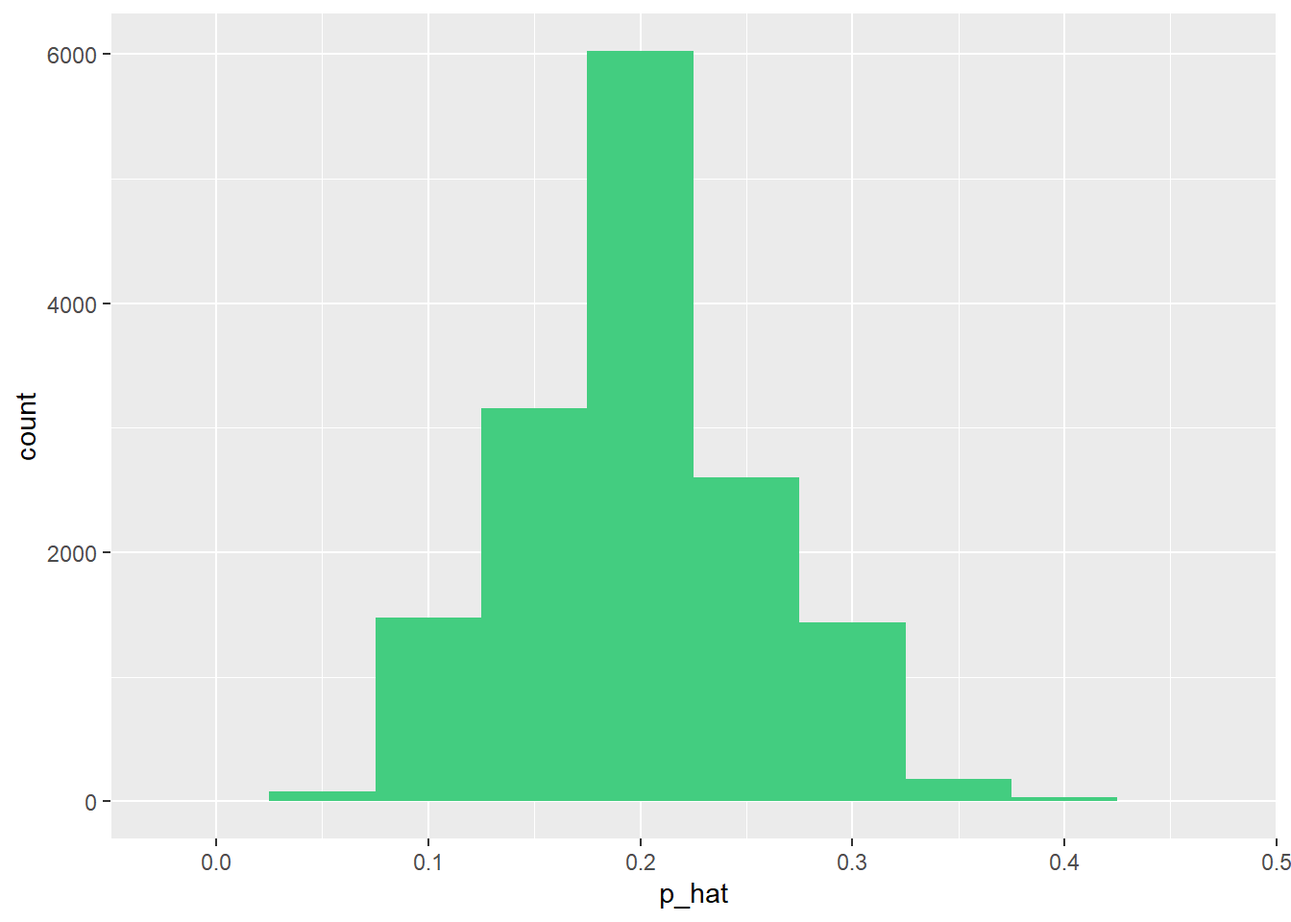
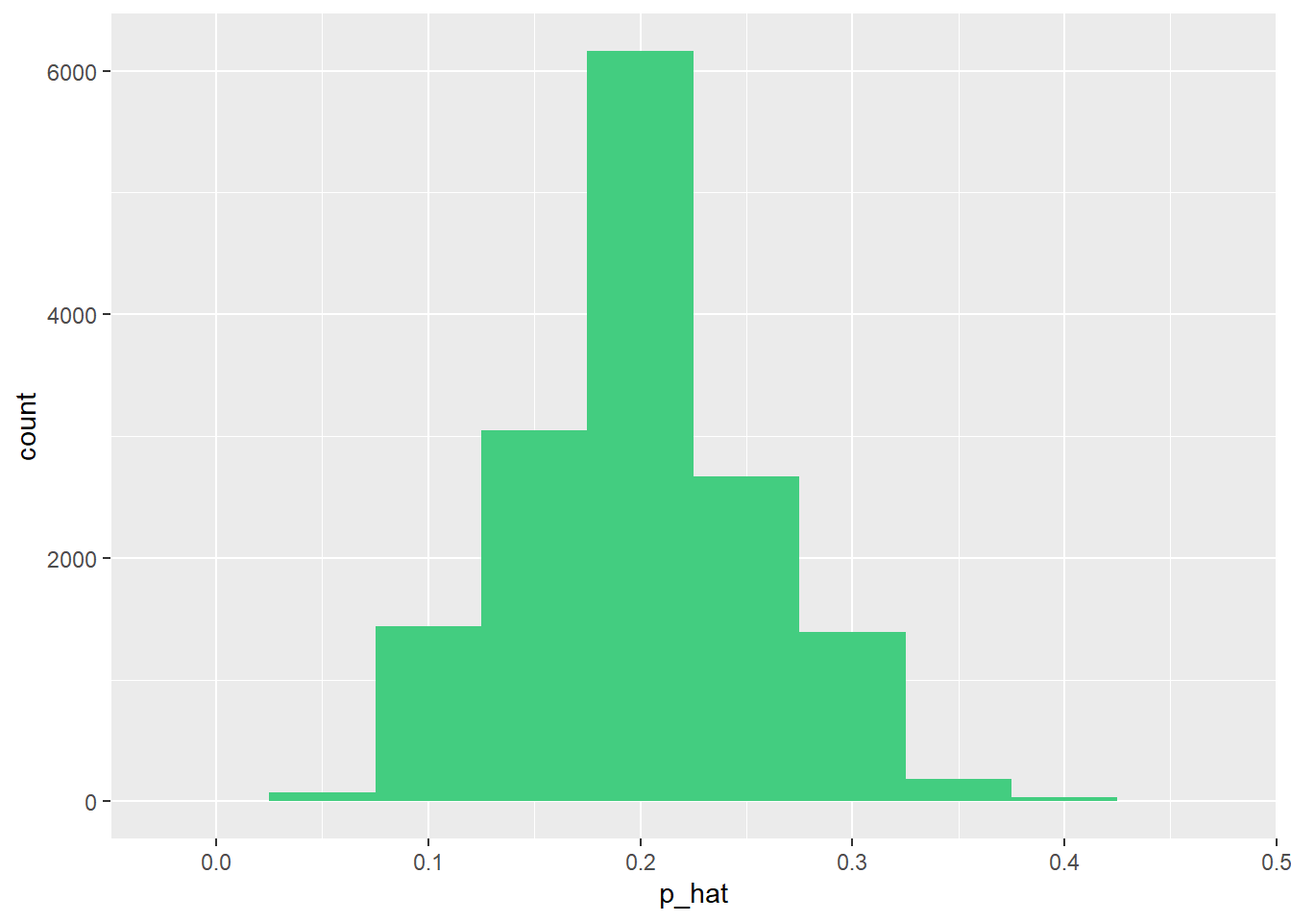
Edit 28102022 1514

diff --git a/docs/part-1---sampling-distributions.html b/docs/part-1---sampling-distributions.html
@@ -231,8 +231,8 @@ We will first create our population assuming a population size of 100,000 (Which
 ## 6 Benefits</code></pre>
 <p><br></p>
 <p><strong>What would this line of code return? <code>c(rep(x, 1000), rep(y, 500))</code></strong></p>
-<div id="radio_ABZZGRTJXZ" class="webex-radiogroup">
-<label><input type="radio" autocomplete="off" name="radio_ABZZGRTJXZ" value="answer"></input> <span>vector of length 1500 with 1000 values of x and 500 values of y</span></label><label><input type="radio" autocomplete="off" name="radio_ABZZGRTJXZ" value=""></input> <span>matrix with 1000 rows of x and 500 columns of y</span></label><label><input type="radio" autocomplete="off" name="radio_ABZZGRTJXZ" value=""></input> <span>vector of length 500 all y</span></label><label><input type="radio" autocomplete="off" name="radio_ABZZGRTJXZ" value=""></input> <span>vector of length 1000 all x</span></label>
+<div id="radio_FLPSKEXYQS" class="webex-radiogroup">
+<label><input type="radio" autocomplete="off" name="radio_FLPSKEXYQS" value=""></input> <span>matrix with 1000 rows of x and 500 columns of y</span></label><label><input type="radio" autocomplete="off" name="radio_FLPSKEXYQS" value=""></input> <span>vector of length 500 all y</span></label><label><input type="radio" autocomplete="off" name="radio_FLPSKEXYQS" value=""></input> <span>vector of length 1000 all x</span></label><label><input type="radio" autocomplete="off" name="radio_FLPSKEXYQS" value="answer"></input> <span>vector of length 1500 with 1000 values of x and 500 values of y</span></label>
 </div>
 <div class="webex-solution">
 <button>
@@ -298,8 +298,8 @@ Solution
 <pre><code>## # A tibble: 2 x 3
 ##   scientist_work      n p_hat
 ##   &lt;chr&gt;           &lt;int&gt; &lt;dbl&gt;
-## 1 Benefits           37  0.74
-## 2 Doesn&#39;t benefit    13  0.26</code></pre>
+## 1 Benefits           34  0.68
+## 2 Doesn&#39;t benefit    16  0.32</code></pre>
 <div class="sourceCode" id="cb11"><pre class="sourceCode r"><code class="sourceCode r"><span id="cb11-1"><a href="part-1---sampling-distributions.html#cb11-1" aria-hidden="true" tabindex="-1"></a><span class="fu">ggplot</span>(sample1, <span class="fu">aes</span>(<span class="at">x =</span> scientist_work)) <span class="sc">+</span> </span>
 <span id="cb11-2"><a href="part-1---sampling-distributions.html#cb11-2" aria-hidden="true" tabindex="-1"></a>  <span class="fu">geom_bar</span>(<span class="at">fill =</span> <span class="st">&quot;lightblue&quot;</span>, <span class="at">width =</span> <span class="fl">0.5</span>) <span class="sc">+</span> </span>
 <span id="cb11-3"><a href="part-1---sampling-distributions.html#cb11-3" aria-hidden="true" tabindex="-1"></a>  <span class="fu">labs</span>(<span class="at">x =</span> <span class="st">&quot;&quot;</span>, <span class="at">y =</span> <span class="st">&quot;&quot;</span>, <span class="at">title =</span> <span class="st">&quot;Do you believe that the work scientists do benefit people like you?&quot;</span> ) <span class="sc">+</span></span>
@@ -308,8 +308,8 @@ Solution
 </div>
 <p><br></p>
 <p><strong>Think about how the proportions in your sample compare with the distribution of the population. Would you expect the sample distribution to be?</strong></p>
-<div id="radio_MHAQQUQRWY" class="webex-radiogroup">
-<label><input type="radio" autocomplete="off" name="radio_MHAQQUQRWY" value="answer"></input> <span>Similar to the population distribution</span></label><label><input type="radio" autocomplete="off" name="radio_MHAQQUQRWY" value=""></input> <span>Very different to the population distribution</span></label>
+<div id="radio_EKZOJMFFJO" class="webex-radiogroup">
+<label><input type="radio" autocomplete="off" name="radio_EKZOJMFFJO" value="answer"></input> <span>Similar to the population distribution</span></label><label><input type="radio" autocomplete="off" name="radio_EKZOJMFFJO" value=""></input> <span>Very different to the population distribution</span></label>
 </div>
 <div class="webex-solution">
 <button>
@@ -328,13 +328,13 @@ Hint
 <pre><code>## # A tibble: 2 x 3
 ##   scientist_work      n p_hat
 ##   &lt;chr&gt;           &lt;int&gt; &lt;dbl&gt;
-## 1 Benefits           37  0.74
-## 2 Doesn&#39;t benefit    13  0.26</code></pre>
+## 1 Benefits           34  0.68
+## 2 Doesn&#39;t benefit    16  0.32</code></pre>
 <p>Depending on the 50 people sampled, your estimate could be a bit above or a bit below the population proportion of 0.2 (or in some cases exactly equal to 0.2). In general, though, the sample proportion turns out to be a pretty good estimate of the true population proportion, and you were able to get it by sampling less than 1% of the population, 50 out of 100000.</p>
 <p><br></p>
 <p><strong>Would you expect the sample proportion to match the sample proportion of another student's sample?</strong></p>
-<div id="radio_HGAZANZPYR" class="webex-radiogroup">
-<label><input type="radio" autocomplete="off" name="radio_HGAZANZPYR" value=""></input> <span>Completely different</span></label><label><input type="radio" autocomplete="off" name="radio_HGAZANZPYR" value="answer"></input> <span>Similar but not necessarily the same</span></label><label><input type="radio" autocomplete="off" name="radio_HGAZANZPYR" value=""></input> <span>Exactly the same</span></label>
+<div id="radio_GTNWUTJPDQ" class="webex-radiogroup">
+<label><input type="radio" autocomplete="off" name="radio_GTNWUTJPDQ" value=""></input> <span>Exactly the same</span></label><label><input type="radio" autocomplete="off" name="radio_GTNWUTJPDQ" value=""></input> <span>Completely different</span></label><label><input type="radio" autocomplete="off" name="radio_GTNWUTJPDQ" value="answer"></input> <span>Similar but not necessarily the same</span></label>
 </div>
 <div class="webex-solution">
 <button>
@@ -368,8 +368,8 @@ Solution
 <pre><code>## # A tibble: 2 x 3
 ##   scientist_work      n p_hat
 ##   &lt;chr&gt;           &lt;int&gt; &lt;dbl&gt;
-## 1 Benefits           42  0.84
-## 2 Doesn&#39;t benefit     8  0.16</code></pre>
+## 1 Benefits           38  0.76
+## 2 Doesn&#39;t benefit    12  0.24</code></pre>
 </div>
 <p><br></p>
 <ul>
@@ -394,8 +394,8 @@ Solution
 <pre><code>## # A tibble: 2 x 3
 ##   scientist_work      n p_hat
 ##   &lt;chr&gt;           &lt;int&gt; &lt;dbl&gt;
-## 1 Benefits           81  0.81
-## 2 Doesn&#39;t benefit    19  0.19</code></pre>
+## 1 Benefits           77  0.77
+## 2 Doesn&#39;t benefit    23  0.23</code></pre>
 <div class="sourceCode" id="cb18"><pre class="sourceCode r"><code class="sourceCode r"><span id="cb18-1"><a href="part-1---sampling-distributions.html#cb18-1" aria-hidden="true" tabindex="-1"></a>sample4 <span class="ot">&lt;-</span> global_monitor <span class="sc">%&gt;%</span> </span>
 <span id="cb18-2"><a href="part-1---sampling-distributions.html#cb18-2" aria-hidden="true" tabindex="-1"></a>  <span class="fu">sample_n</span>(<span class="dv">1000</span>)</span>
 <span id="cb18-3"><a href="part-1---sampling-distributions.html#cb18-3" aria-hidden="true" tabindex="-1"></a></span>
@@ -405,15 +405,15 @@ Solution
 <pre><code>## # A tibble: 2 x 3
 ##   scientist_work      n p_hat
 ##   &lt;chr&gt;           &lt;int&gt; &lt;dbl&gt;
-## 1 Benefits          815 0.815
-## 2 Doesn&#39;t benefit   185 0.185</code></pre>
+## 1 Benefits          800   0.8
+## 2 Doesn&#39;t benefit   200   0.2</code></pre>
 </div>
 <p><br></p>
 <ul>
 <li><strong>Looking at the new samples, of size 100 and 1000. Which would you think would provide a more precise estimate of the population mean?</strong></li>
 </ul>
-<div id="radio_WAWLQQYQPB" class="webex-radiogroup">
-<label><input type="radio" autocomplete="off" name="radio_WAWLQQYQPB" value=""></input> <span>Sample size 50</span></label><label><input type="radio" autocomplete="off" name="radio_WAWLQQYQPB" value=""></input> <span>Sample size 100</span></label><label><input type="radio" autocomplete="off" name="radio_WAWLQQYQPB" value="answer"></input> <span>Sample size 1000</span></label>
+<div id="radio_WNLDLNTILM" class="webex-radiogroup">
+<label><input type="radio" autocomplete="off" name="radio_WNLDLNTILM" value=""></input> <span>Sample size 50</span></label><label><input type="radio" autocomplete="off" name="radio_WNLDLNTILM" value=""></input> <span>Sample size 100</span></label><label><input type="radio" autocomplete="off" name="radio_WNLDLNTILM" value="answer"></input> <span>Sample size 1000</span></label>
 </div>
 <div class="webex-solution">
 <button>
@@ -448,8 +448,8 @@ Hint
 <p>If you would like to adjust the bin width of your histogram to show a little more detail, you can do so by changing the <code>binwidth</code> argument in <code>geom_histogram</code>.</p>
 <p><br></p>
 <p><strong>How many observations are there in <code>sample_props50</code>?</strong></p>
-<div id="radio_WJPKQNTAAX" class="webex-radiogroup">
-<label><input type="radio" autocomplete="off" name="radio_WJPKQNTAAX" value=""></input> <span>50</span></label><label><input type="radio" autocomplete="off" name="radio_WJPKQNTAAX" value=""></input> <span>100</span></label><label><input type="radio" autocomplete="off" name="radio_WJPKQNTAAX" value=""></input> <span>1500</span></label><label><input type="radio" autocomplete="off" name="radio_WJPKQNTAAX" value=""></input> <span>1000</span></label><label><input type="radio" autocomplete="off" name="radio_WJPKQNTAAX" value="answer"></input> <span>15000</span></label>
+<div id="radio_VCOKGIFWBB" class="webex-radiogroup">
+<label><input type="radio" autocomplete="off" name="radio_VCOKGIFWBB" value=""></input> <span>50</span></label><label><input type="radio" autocomplete="off" name="radio_VCOKGIFWBB" value=""></input> <span>100</span></label><label><input type="radio" autocomplete="off" name="radio_VCOKGIFWBB" value=""></input> <span>1500</span></label><label><input type="radio" autocomplete="off" name="radio_VCOKGIFWBB" value=""></input> <span>1000</span></label><label><input type="radio" autocomplete="off" name="radio_VCOKGIFWBB" value="answer"></input> <span>15000</span></label>
 </div>
 <div class="webex-solution">
 <button>
@@ -459,8 +459,8 @@ Hint
 </div>
 <p><br></p>
 <p><strong>What distribution does the shape of the histogram most resemble?</strong></p>
-<div id="radio_LQUPOWAVYP" class="webex-radiogroup">
-<label><input type="radio" autocomplete="off" name="radio_LQUPOWAVYP" value=""></input> <span>Binomial</span></label><label><input type="radio" autocomplete="off" name="radio_LQUPOWAVYP" value=""></input> <span>Poisson</span></label><label><input type="radio" autocomplete="off" name="radio_LQUPOWAVYP" value=""></input> <span>Geometric</span></label><label><input type="radio" autocomplete="off" name="radio_LQUPOWAVYP" value="answer"></input> <span>Normal</span></label>
+<div id="radio_CMJLKMCXTB" class="webex-radiogroup">
+<label><input type="radio" autocomplete="off" name="radio_CMJLKMCXTB" value=""></input> <span>Poisson</span></label><label><input type="radio" autocomplete="off" name="radio_CMJLKMCXTB" value=""></input> <span>Geometric</span></label><label><input type="radio" autocomplete="off" name="radio_CMJLKMCXTB" value=""></input> <span>Binomial</span></label><label><input type="radio" autocomplete="off" name="radio_CMJLKMCXTB" value="answer"></input> <span>Normal</span></label>
 </div>
 <div class="webex-solution">
 <button>
@@ -488,8 +488,8 @@ Hint
 <span id="cb21-11"><a href="part-1---sampling-distributions.html#cb21-11" aria-hidden="true" tabindex="-1"></a>       <span class="at">subtitle =</span> <span class="st">&quot;Sample size = 50&quot;</span>)</span></code></pre></div>
 <p><br></p>
 <p><strong>Would you expect the distribution to change if 50,000 samples were collected?</strong></p>
-<div id="radio_YWEUVLASRB" class="webex-radiogroup">
-<label><input type="radio" autocomplete="off" name="radio_YWEUVLASRB" value=""></input> <span>Yes</span></label><label><input type="radio" autocomplete="off" name="radio_YWEUVLASRB" value="answer"></input> <span>No</span></label>
+<div id="radio_JDQFOYAOOB" class="webex-radiogroup">
+<label><input type="radio" autocomplete="off" name="radio_JDQFOYAOOB" value=""></input> <span>Yes</span></label><label><input type="radio" autocomplete="off" name="radio_JDQFOYAOOB" value="answer"></input> <span>No</span></label>
 </div>
 <div class="webex-solution">
 <button>
@@ -578,8 +578,8 @@ Solution
 </div>
 <p><br></p>
 <p><strong>When the sample size is larger, what happens to the center?</strong></p>
-<div id="radio_NKHCSZCYIB" class="webex-radiogroup">
-<label><input type="radio" autocomplete="off" name="radio_NKHCSZCYIB" value=""></input> <span>Increases</span></label><label><input type="radio" autocomplete="off" name="radio_NKHCSZCYIB" value=""></input> <span>Decreases</span></label><label><input type="radio" autocomplete="off" name="radio_NKHCSZCYIB" value="answer"></input> <span>Stays constant</span></label>
+<div id="radio_IBRIRXIUTZ" class="webex-radiogroup">
+<label><input type="radio" autocomplete="off" name="radio_IBRIRXIUTZ" value=""></input> <span>Increases</span></label><label><input type="radio" autocomplete="off" name="radio_IBRIRXIUTZ" value=""></input> <span>Decreases</span></label><label><input type="radio" autocomplete="off" name="radio_IBRIRXIUTZ" value="answer"></input> <span>Stays constant</span></label>
 </div>
 <div class="webex-solution">
 <button>
@@ -589,8 +589,8 @@ Hint
 </div>
 <p><br></p>
 <p><strong>When the sample size is larger, what happens to the spread?</strong></p>
-<div id="radio_HBNEJYICTJ" class="webex-radiogroup">
-<label><input type="radio" autocomplete="off" name="radio_HBNEJYICTJ" value=""></input> <span>Increases</span></label><label><input type="radio" autocomplete="off" name="radio_HBNEJYICTJ" value="answer"></input> <span>Decreases</span></label><label><input type="radio" autocomplete="off" name="radio_HBNEJYICTJ" value=""></input> <span>Stays constant</span></label>
+<div id="radio_HIMLVNFHUH" class="webex-radiogroup">
+<label><input type="radio" autocomplete="off" name="radio_HIMLVNFHUH" value=""></input> <span>Increases</span></label><label><input type="radio" autocomplete="off" name="radio_HIMLVNFHUH" value="answer"></input> <span>Decreases</span></label><label><input type="radio" autocomplete="off" name="radio_HIMLVNFHUH" value=""></input> <span>Stays constant</span></label>
 </div>
 <div class="webex-solution">
 <button>

diff --git a/docs/part-2---confidence-intervals.html b/docs/part-2---confidence-intervals.html
@@ -269,13 +269,13 @@ Solution
 <pre><code>## # A tibble: 2 x 3
 ##   climate_change_affects     n p_hat
 ##   &lt;chr&gt;                  &lt;int&gt; &lt;dbl&gt;
-## 1 No                        30   0.5
-## 2 Yes                       30   0.5</code></pre>
+## 1 No                        25 0.417
+## 2 Yes                       35 0.583</code></pre>
 </div>
 <p><br></p>
 <strong>What would you expect another student's proportion to be?</strong>
-<div id="radio_CYCGFRMBLU" class="webex-radiogroup">
-<label><input type="radio" autocomplete="off" name="radio_CYCGFRMBLU" value="answer"></input> <span>Slightly similar</span></label><label><input type="radio" autocomplete="off" name="radio_CYCGFRMBLU" value=""></input> <span>Very different</span></label><label><input type="radio" autocomplete="off" name="radio_CYCGFRMBLU" value=""></input> <span>Identical</span></label>
+<div id="radio_XTSAHHZJEZ" class="webex-radiogroup">
+<label><input type="radio" autocomplete="off" name="radio_XTSAHHZJEZ" value=""></input> <span>Very different</span></label><label><input type="radio" autocomplete="off" name="radio_XTSAHHZJEZ" value="answer"></input> <span>Slightly similar</span></label><label><input type="radio" autocomplete="off" name="radio_XTSAHHZJEZ" value=""></input> <span>Identical</span></label>
 </div>
 <div class="webex-solution">
 <button>
@@ -302,11 +302,11 @@ Hint
 <p>However, some conditions need to be made for the confidence interval to be valid.</p>
 <p><br></p>
 <strong>What conditions must be met for this confidence to be valid?</strong>
-<div id="radio_LEXBSLUTRT" class="webex-radiogroup">
-<label><input type="radio" autocomplete="off" name="radio_LEXBSLUTRT" value=""></input> <span>Data comes from a normal distribution</span></label><label><input type="radio" autocomplete="off" name="radio_LEXBSLUTRT" value=""></input> <span>Data comes from a binomial distribution</span></label><label><input type="radio" autocomplete="off" name="radio_LEXBSLUTRT" value="answer"></input> <span>Independence assumption is valid</span></label>
+<div id="radio_MLCKPLRVHG" class="webex-radiogroup">
+<label><input type="radio" autocomplete="off" name="radio_MLCKPLRVHG" value="answer"></input> <span>Independence assumption is valid</span></label><label><input type="radio" autocomplete="off" name="radio_MLCKPLRVHG" value=""></input> <span>Data comes from a normal distribution</span></label><label><input type="radio" autocomplete="off" name="radio_MLCKPLRVHG" value=""></input> <span>Data comes from a binomial distribution</span></label>
 </div>
-<div id="radio_EXKDDAZVRC" class="webex-radiogroup">
-<label><input type="radio" autocomplete="off" name="radio_EXKDDAZVRC" value=""></input> <span>If distribution of the data is skewed the sample size must be small enough</span></label><label><input type="radio" autocomplete="off" name="radio_EXKDDAZVRC" value="answer"></input> <span>If the distribution of the data is skewed the sample size must be large enough</span></label>
+<div id="radio_FNFLISYWKF" class="webex-radiogroup">
+<label><input type="radio" autocomplete="off" name="radio_FNFLISYWKF" value=""></input> <span>If distribution of the data is skewed the sample size must be small enough</span></label><label><input type="radio" autocomplete="off" name="radio_FNFLISYWKF" value="answer"></input> <span>If the distribution of the data is skewed the sample size must be large enough</span></label>
 </div>
 <div class="webex-solution">
 <button>
@@ -337,8 +337,8 @@ Hint
 <span id="cb32-14"><a href="part-2---confidence-intervals.html#cb32-14" aria-hidden="true" tabindex="-1"></a>ci</span></code></pre></div>
 <p><br></p>
 <strong>If you were to repeat this simulation again and again, would each confidence interval capture the true population proportion of US adults who think climate change affects their local community?</strong>
-<div id="radio_SWCMSMGEYT" class="webex-radiogroup">
-<label><input type="radio" autocomplete="off" name="radio_SWCMSMGEYT" value="answer"></input> <span>Each would with 95% confidence</span></label><label><input type="radio" autocomplete="off" name="radio_SWCMSMGEYT" value=""></input> <span>Yes, each certainly would</span></label><label><input type="radio" autocomplete="off" name="radio_SWCMSMGEYT" value=""></input> <span>No, each certainly wouldn't</span></label>
+<div id="radio_LDPQIWOUJJ" class="webex-radiogroup">
+<label><input type="radio" autocomplete="off" name="radio_LDPQIWOUJJ" value=""></input> <span>Yes, each certainly would</span></label><label><input type="radio" autocomplete="off" name="radio_LDPQIWOUJJ" value=""></input> <span>No, each certainly wouldn't</span></label><label><input type="radio" autocomplete="off" name="radio_LDPQIWOUJJ" value="answer"></input> <span>Each would with 95% confidence</span></label>
 </div>
 <div class="webex-solution">
 <button>
@@ -350,8 +350,8 @@ Hint
 <p>If we were to collect all the confidence intervals produced in the console above by all the students in S1Y, each student should have produced a slightly different confidence interval because they were each based on different random samples.</p>
 <p><br></p>
 <strong>What proportion of those intervals would you expect to capture the true population mean?</strong>
-<div id="radio_CQFADFUHEP" class="webex-radiogroup">
-<label><input type="radio" autocomplete="off" name="radio_CQFADFUHEP" value=""></input> <span>2.5%</span></label><label><input type="radio" autocomplete="off" name="radio_CQFADFUHEP" value=""></input> <span>5%</span></label><label><input type="radio" autocomplete="off" name="radio_CQFADFUHEP" value="answer"></input> <span>95%</span></label>
+<div id="radio_YXBRONTDRS" class="webex-radiogroup">
+<label><input type="radio" autocomplete="off" name="radio_YXBRONTDRS" value=""></input> <span>5%</span></label><label><input type="radio" autocomplete="off" name="radio_YXBRONTDRS" value="answer"></input> <span>95%</span></label><label><input type="radio" autocomplete="off" name="radio_YXBRONTDRS" value=""></input> <span>2.5%</span></label>
 </div>
 <div class="webex-solution">
 <button>
@@ -399,8 +399,8 @@ Hint
 <span id="cb33-26"><a href="part-2---confidence-intervals.html#cb33-26" aria-hidden="true" tabindex="-1"></a><span class="fu">c</span>(<span class="st">&quot;99% CI&quot;</span>, <span class="fu">paste</span>(<span class="fu">round</span>(ci,<span class="dv">3</span>)))</span></code></pre></div>
 <p><br></p>
 <strong>Which interval would you expect to be wider?</strong>
-<div id="radio_ULYVOXSQTL" class="webex-radiogroup">
-<label><input type="radio" autocomplete="off" name="radio_ULYVOXSQTL" value=""></input> <span>Interval with a larger sample size</span></label><label><input type="radio" autocomplete="off" name="radio_ULYVOXSQTL" value="answer"></input> <span>Interval with a larger confidence level</span></label>
+<div id="radio_DOCAJACVVY" class="webex-radiogroup">
+<label><input type="radio" autocomplete="off" name="radio_DOCAJACVVY" value="answer"></input> <span>Interval with a larger confidence level</span></label><label><input type="radio" autocomplete="off" name="radio_DOCAJACVVY" value=""></input> <span>Interval with a larger sample size</span></label>
 </div>
 <div class="webex-solution">
 <button>

diff --git a/docs/group-tasks.html b/docs/group-tasks.html
@@ -201,11 +201,11 @@ code span.wa { color: #60a0b0; font-weight: bold; font-style: italic; } /* Warni
 <div id="sampling-distributions" class="section level2 unnumbered hasAnchor">
 <h2>Sampling Distributions<a href="group-tasks.html#sampling-distributions" class="anchor-section" aria-label="Anchor link to header"></a></h2>
 <p>In Part 1, we have only focused on estimating the proportion of those who think the work scientists do doesn’t benefit them.</p>
-<p>Now, you’ll try to estimate the proportion of those who think the work of scientists does benefit them.</p>
+<p>Now, you’ll estimate the proportion of those who think the work of scientists does benefit them.</p>
 <p><br></p>
 <div id="task-1" class="section level3 unnumbered hasAnchor">
 <h3>Task 1<a href="group-tasks.html#task-1" class="anchor-section" aria-label="Anchor link to header"></a></h3>
-<p>Take a sample of size 20 from the population and calculate the proportion of people in this sample who think the work scientists do enhances their lives. Using this sample, state the point estimate of the population proportion of people who think the work scientists do enhance their lives?</p>
+<p>Take a sample of size 20 from the population you created in Part 1 and calculate the proportion of people in this sample who think the work scientists do <strong>does</strong> enhance their lives. Using this sample, state the point estimate of the population proportion of people who think the work scientists do enhance their lives?</p>
 <p><br></p>
 </div>
 <div id="task-2" class="section level3 unnumbered hasAnchor">
@@ -214,8 +214,8 @@ code span.wa { color: #60a0b0; font-weight: bold; font-style: italic; } /* Warni
 <p><br></p>
 <p><br></p>
 <p><strong>Is there any skew in this sampling distribution?</strong></p>
-<div id="radio_OUDFJJCZGO" class="webex-radiogroup">
-<label><input type="radio" autocomplete="off" name="radio_OUDFJJCZGO" value=""></input> <span>Yes, the data are left skewed</span></label><label><input type="radio" autocomplete="off" name="radio_OUDFJJCZGO" value=""></input> <span>Yes, the data are right skewed</span></label><label><input type="radio" autocomplete="off" name="radio_OUDFJJCZGO" value="answer"></input> <span>No, there is no skew present</span></label>
+<div id="radio_QNNVXNESWA" class="webex-radiogroup">
+<label><input type="radio" autocomplete="off" name="radio_QNNVXNESWA" value="answer"></input> <span>Yes, the data are left skewed</span></label><label><input type="radio" autocomplete="off" name="radio_QNNVXNESWA" value=""></input> <span>Yes, the data are right skewed</span></label><label><input type="radio" autocomplete="off" name="radio_QNNVXNESWA" value=""></input> <span>No, there is no skew present</span></label>
 </div>
 <p><br></p>
 </div>
@@ -224,13 +224,13 @@ code span.wa { color: #60a0b0; font-weight: bold; font-style: italic; } /* Warni
 <p>Change your sample size from 20 to 200 and calculate each sample proportion using the same method as above. Store these proportions in a new object called <code>sample_props200</code>. Then, plot the sampling distribution as a histogram.</p>
 <p><br></p>
 <p><strong>What value would you use to estimate the true population proportion from the sampling distribution from <em>Task 3</em>?</strong></p>
-<div id="radio_KJBKLPENFJ" class="webex-radiogroup">
-<label><input type="radio" autocomplete="off" name="radio_KJBKLPENFJ" value=""></input> <span>The median of the sample proportions</span></label><label><input type="radio" autocomplete="off" name="radio_KJBKLPENFJ" value="answer"></input> <span>The mean of the sample proportions</span></label><label><input type="radio" autocomplete="off" name="radio_KJBKLPENFJ" value=""></input> <span>The maximum of the sample proportions</span></label><label><input type="radio" autocomplete="off" name="radio_KJBKLPENFJ" value=""></input> <span>The minimum of the sample proportions</span></label>
+<div id="radio_GLKNEBIMVT" class="webex-radiogroup">
+<label><input type="radio" autocomplete="off" name="radio_GLKNEBIMVT" value=""></input> <span>The median of the sample proportions</span></label><label><input type="radio" autocomplete="off" name="radio_GLKNEBIMVT" value="answer"></input> <span>The mean of the sample proportions</span></label><label><input type="radio" autocomplete="off" name="radio_GLKNEBIMVT" value=""></input> <span>The maximum of the sample proportions</span></label><label><input type="radio" autocomplete="off" name="radio_GLKNEBIMVT" value=""></input> <span>The minimum of the sample proportions</span></label>
 </div>
 <p><br></p>
 <p><strong>Of the sampling distributions from 2 and 3, which has a smaller spread?</strong></p>
-<div id="radio_ICUEBIBSLF" class="webex-radiogroup">
-<label><input type="radio" autocomplete="off" name="radio_ICUEBIBSLF" value=""></input> <span>Sampling distribution from Q2</span></label><label><input type="radio" autocomplete="off" name="radio_ICUEBIBSLF" value="answer"></input> <span>Sampling distribution from Q3</span></label>
+<div id="radio_XKPMLWPJBD" class="webex-radiogroup">
+<label><input type="radio" autocomplete="off" name="radio_XKPMLWPJBD" value=""></input> <span>Sampling distribution from Q2</span></label><label><input type="radio" autocomplete="off" name="radio_XKPMLWPJBD" value="answer"></input> <span>Sampling distribution from Q3</span></label>
 </div>
 <p><br></p>
 </div>
@@ -243,11 +243,11 @@ code span.wa { color: #60a0b0; font-weight: bold; font-style: italic; } /* Warni
 <p><br></p>
 <div id="task-4" class="section level3 unnumbered hasAnchor">
 <h3>Task 4<a href="group-tasks.html#task-4" class="anchor-section" aria-label="Anchor link to header"></a></h3>
-<p>Take a sample of size 60 from <code>us_adults</code> and find a confidence interval for the proportion of US Adults who think climate change is affecting their local community with a confidence level of 90% and interpret it.</p>
+<p>Returning now to the context and data in Part 2, take a sample of size 60 from <code>us_adults</code> and calculate a confidence interval for the proportion of US Adults who think climate change is affecting their local community with a confidence level of 90% and interpret it.</p>
 <p><br></p>
 <p><strong>Is this interval narrower or wider than the confidence interval for the proportion of US Adults who think climate change is affecting their local community calculated earlier at a 95% confidence level?</strong></p>
-<div id="radio_PFROVFGDWY" class="webex-radiogroup">
-<label><input type="radio" autocomplete="off" name="radio_PFROVFGDWY" value="answer"></input> <span>narrower</span></label><label><input type="radio" autocomplete="off" name="radio_PFROVFGDWY" value=""></input> <span>wider</span></label>
+<div id="radio_PBMUFSBSFM" class="webex-radiogroup">
+<label><input type="radio" autocomplete="off" name="radio_PBMUFSBSFM" value="answer"></input> <span>narrower</span></label><label><input type="radio" autocomplete="off" name="radio_PBMUFSBSFM" value=""></input> <span>wider</span></label>
 </div>
 <p><br></p>
 
